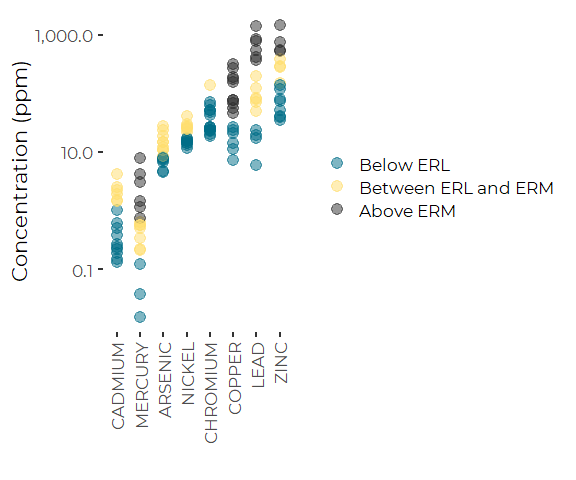
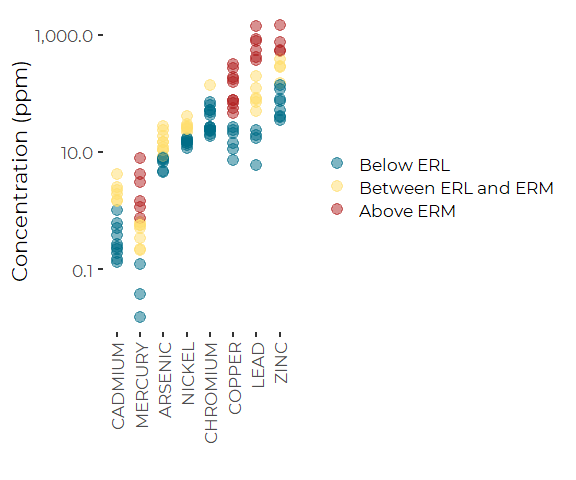
Revise graphics to make colors more intuitive, with red for most toxic category.

Changed region(s): [[0.375, 0.0312, 0.5, 0.25], [0.2188, 0.3125, 0.25, 0.4688], [0.5625, 0.4062, 0.5938, 0.4688]]

diff --git a/Graphics/Final_Graphic_3.md b/Graphics/Final_Graphic_3.md
@@ -95,12 +95,20 @@ library(readxl)
 library(tidyverse)
 ```
 
-    ## -- Attaching packages --------------------------------------- tidyverse 1.3.0 --
+    ## Warning: package 'tidyverse' was built under R version 4.0.5
+
+    ## -- Attaching packages --------------------------------------- tidyverse 1.3.1 --
 
     ## v ggplot2 3.3.3     v purrr   0.3.4
-    ## v tibble  3.0.5     v dplyr   1.0.3
-    ## v tidyr   1.1.2     v stringr 1.4.0
-    ## v readr   1.4.0     v forcats 0.5.0
+    ## v tibble  3.1.2     v dplyr   1.0.6
+    ## v tidyr   1.1.3     v stringr 1.4.0
+    ## v readr   1.4.0     v forcats 0.5.1
+
+    ## Warning: package 'tidyr' was built under R version 4.0.5
+
+    ## Warning: package 'dplyr' was built under R version 4.0.5
+
+    ## Warning: package 'forcats' was built under R version 4.0.5
 
     ## -- Conflicts ------------------------------------------ tidyverse_conflicts() --
     ## x dplyr::filter() masks stats::filter()
@@ -108,8 +116,15 @@ library(tidyverse)
 
 ``` r
 library(ggthemes)
+```
+
+    ## Warning: package 'ggthemes' was built under R version 4.0.5
+
+``` r
 library(GGally)
 ```
+
+    ## Warning: package 'GGally' was built under R version 4.0.5
 
     ## Registered S3 method overwritten by 'GGally':
     ##   method from   
@@ -118,6 +133,8 @@ library(GGally)
 ``` r
 library(maxLik)
 ```
+
+    ## Warning: package 'maxLik' was built under R version 4.0.5
 
     ## Loading required package: miscTools
 
@@ -427,7 +444,7 @@ the_data[the_data$SAMPLE_ID=='CSS-15' & the_data$PARAMETER_NAME=="4,4'-DDT",]
     ## 5 <NA>      <NA>   <NA>                  NA     <NA>                   NA    
     ## 6 <NA>      <NA>   <NA>                  NA     <NA>                   NA    
     ## 7 <NA>      <NA>   <NA>                  NA     <NA>                   NA    
-    ## # ... with 8 more variables: PARAMETER_UNITS <chr>, `%_RECOVERY` <dbl>,
+    ## # ... with 8 more variables: PARAMETER_UNITS <chr>, %_RECOVERY <dbl>,
     ## #   RPD <dbl>, TEST <chr>, PARAMETER_QUALIFIER <chr>, PARAMETER_FILTERED <chr>,
     ## #   MDL <dbl>, DILUTION_FACTOR <dbl>
 
@@ -517,7 +534,7 @@ est <- the_data %>%
 (mle <- mean(est))
 ```
 
-    ## [1] 0.4460578
+    ## [1] 0.4467067
 
 ``` r
 rm(est)
@@ -628,6 +645,14 @@ res_screen <- res_screen %>%
 
 ## Graphic Development
 
+``` r
+# First line is not necessary, but we like to keep color formats consistent....
+fb <- rgb(t(col2rgb('firebrick')), maxColorValue = 255)
+tox_colors <- c(cbep_colors()[1:2], fb)
+na_color <- cbep_colors()[3]
+rm(fb)
+```
+
 ### Draft
 
 ``` r
@@ -641,7 +666,7 @@ plt <- ggplot(res_screen, aes(Contaminant, MLE)) +
   scale_y_log10(labels=scales::comma) +
   
  #scale_shape_manual(values = c(24,25)) +
-  scale_color_manual(name = '', values = cbep_colors()) +
+  scale_color_manual(name = '', values = tox_colors) +
   ylab('Concentration (ppb)') +
   xlab ('') +
   theme_cbep() +
@@ -678,7 +703,7 @@ tmp_sl <- sl %>%
 plt <- ggplot(tmp, aes(Contaminant, MLE)) + 
   geom_point(aes(color = SL), size = 4, alpha = 0.5) +
   scale_y_log10(labels=scales::comma) +
-  scale_color_manual(name = '', values = cbep_colors()) +
+  scale_color_manual(name = '', values = tox_colors) +
   #scale_color_viridis_d(begin=0, end=0.9, name = '') +  # The "end" parameter cuts out a very pale yellow.
   ylab('Concentration (ppb)') +
   xlab ('') +
@@ -841,7 +866,7 @@ plt <- ggplot(tmp, aes(Contaminant, Conc, color = SL)) +
   geom_point(size = 4, alpha = 0.5) +
   
   scale_y_log10(labels=scales::comma) +
-  scale_color_manual(name = '', values = cbep_colors()) +
+  scale_color_manual(name = '', values = tox_colors) +
   ylab('Concentration (ppm)') +
   xlab ('') +
   theme_cbep() +
